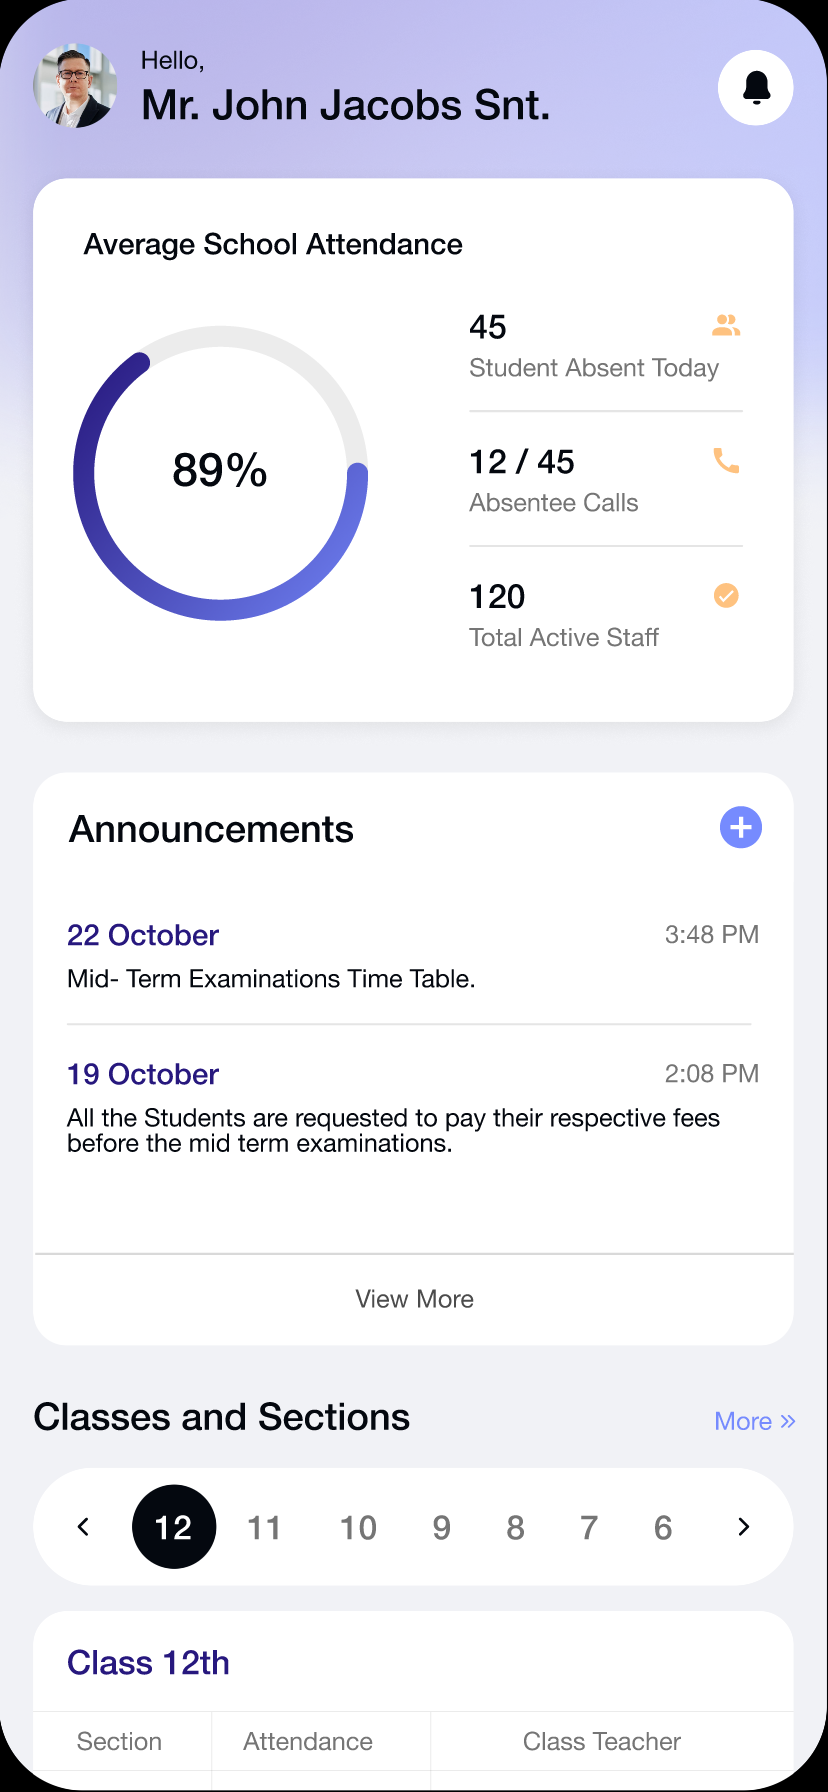
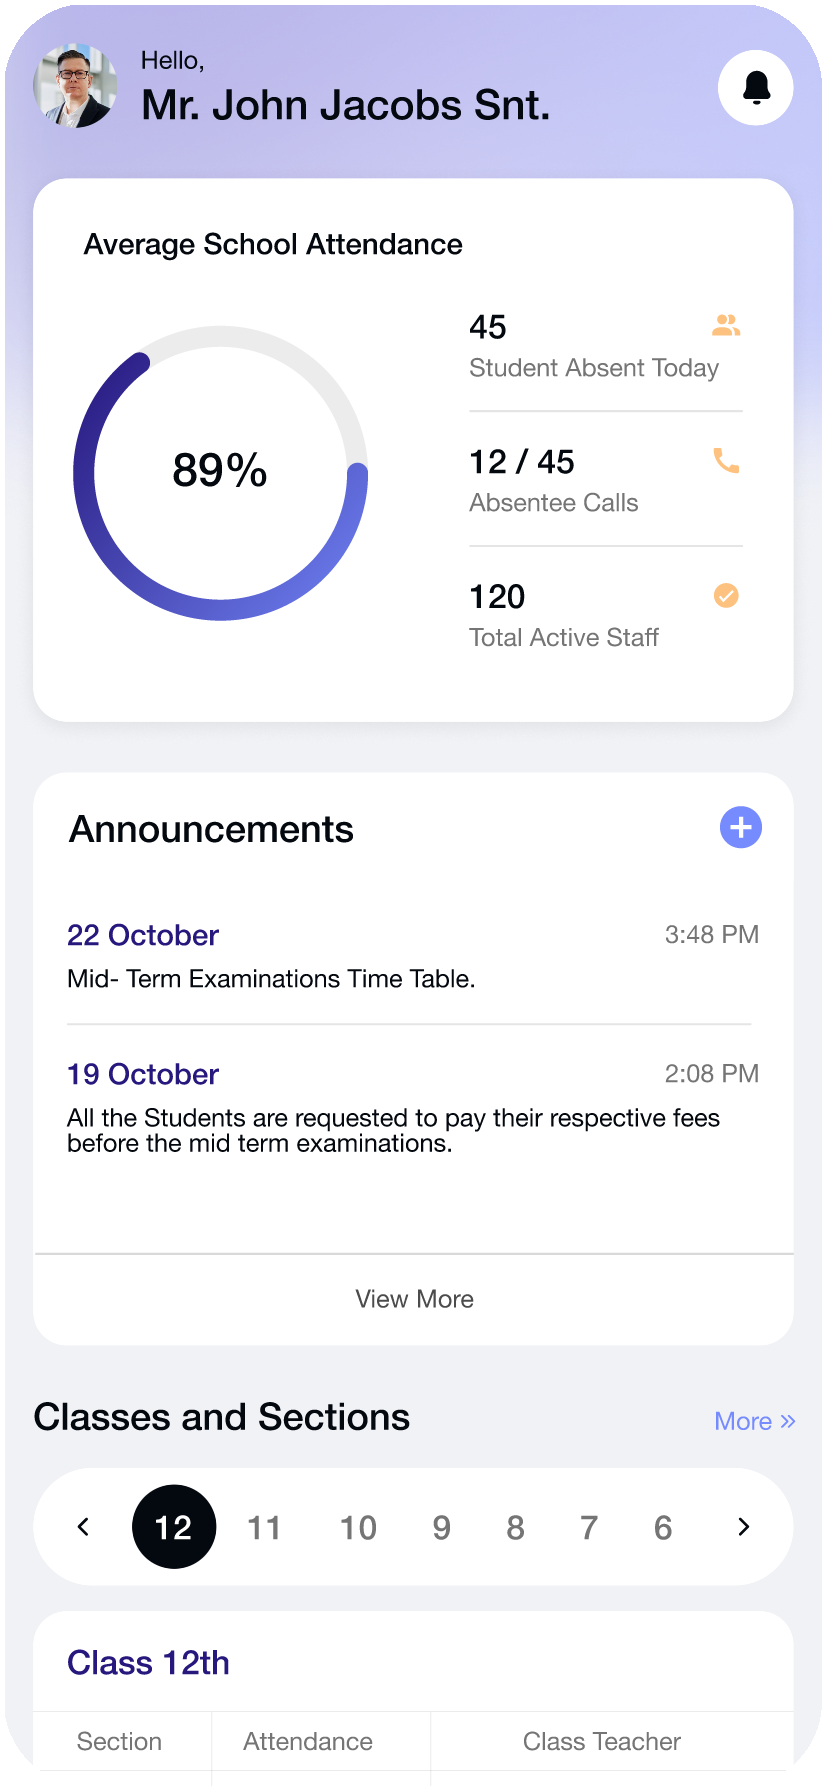
lag fix and small ui changes

Changed region(s): [[0.9058, 0.0, 1.0, 1.0], [0.0, 0.0, 0.0906, 0.25], [0.0, 0.9688, 0.0604, 1.0]]

diff --git a/src/components/IntroVideoFloater.tsx b/src/components/IntroVideoFloater.tsx
@@ -1,15 +1,33 @@
 import { useEffect, useRef, useState } from 'react';
 import { motion, AnimatePresence } from 'framer-motion';
-import { Maximize2, Minimize2, Volume2, VolumeX, X } from 'lucide-react';
+import { Maximize2, Minimize2, Play, Volume2, VolumeX, X } from 'lucide-react';
+import { useIsMobile } from '@/hooks/use-mobile';
 
 export function IntroVideoFloater() {
+  const isMobile = useIsMobile();
   const [hovered, setHovered] = useState(false);
   const [fullscreen, setFullscreen] = useState(false);
   const [muted, setMuted] = useState(true);
   const [dismissed, setDismissed] = useState(false);
+  // Desktop autoplays; on phones we wait for a tap so we don't download and
+  // continuously decode the 7 MB video on load (the main mobile cost here).
+  const [playing, setPlaying] = useState(!isMobile);
   const videoRef = useRef<HTMLVideoElement>(null);
 
-  const expanded = hovered || fullscreen;
+  // Controls are hover-gated on desktop; phones have no hover, so always show
+  // them there — otherwise the close/unmute buttons are unreachable on touch.
+  const expanded = hovered || fullscreen || isMobile;
+
+  const togglePlay = () => {
+    const v = videoRef.current;
+    if (!v) return;
+    if (v.paused) {
+      v.play().then(() => setPlaying(true)).catch(() => {});
+    } else {
+      v.pause();
+      setPlaying(false);
+    }
+  };
 
   useEffect(() => {
     const v = videoRef.current;
@@ -112,12 +130,33 @@ export function IntroVideoFloater() {
         <video
           ref={videoRef}
           src="/intro.mp4"
-          autoPlay
+          autoPlay={!isMobile}
           loop
           muted
           playsInline
+          preload={isMobile ? 'none' : 'auto'}
           className="pointer-events-none h-full w-full object-cover"
         />
+
+        {/* Tap-to-play overlay on phones (video doesn't autoplay there).
+            pointer-events-none on the dim layer so the close/control buttons
+            below stay tappable; only the centred Play button captures taps. */}
+        {isMobile && !playing && (
+          <div className="pointer-events-none absolute inset-0 z-10 flex items-center justify-center bg-black/40">
+            <button
+              type="button"
+              onPointerDown={(e) => e.stopPropagation()}
+              onClick={(e) => {
+                e.stopPropagation();
+                togglePlay();
+              }}
+              aria-label="Play intro video"
+              className="pointer-events-auto flex h-12 w-12 items-center justify-center rounded-full bg-white/90 text-black shadow"
+            >
+              <Play className="h-5 w-5 translate-x-0.5" />
+            </button>
+          </div>
+        )}
 
         <AnimatePresence>
           {expanded && (

diff --git a/src/App.tsx b/src/App.tsx
@@ -1,7 +1,7 @@
 import { useState, useEffect, Suspense, lazy } from "react";
 import { Toaster } from "@/components/ui/toaster";
 import { LoadingScreen } from "@/components/ui/LoadingScreen";
-import { AnimatePresence } from "framer-motion";
+import { AnimatePresence, MotionConfig } from "framer-motion";
 import { Toaster as Sonner } from "@/components/ui/sonner";
 import { TooltipProvider } from "@/components/ui/tooltip";
 import { QueryClient, QueryClientProvider } from "@tanstack/react-query";
@@ -9,6 +9,7 @@ import { BrowserRouter, Routes, Route } from "react-router-dom";
 import { ScrollToTop } from "./components/ScrollToTop";
 import { ErrorBoundary } from "./components/ErrorBoundary";
 import { SITE_CONFIG } from "./lib/constants";
+import { useIsMobile } from "@/hooks/use-mobile";
 
 // Lazy load richer pages for code-splitting to reduce initial bundle size.
 // Privacy/Terms are imported eagerly because they're small static legal pages
@@ -30,6 +31,7 @@ const queryClient = new QueryClient();
 const isPrerender = typeof navigator !== 'undefined' && navigator.webdriver;
 
 const App = () => {
+  const isMobile = useIsMobile();
   const [isLoading, setIsLoading] = useState(!isPrerender);
   const [pageReady, setPageReady] = useState(isPrerender);
   const [timerDone, setTimerDone] = useState(isPrerender);
@@ -68,6 +70,11 @@ const App = () => {
         <TooltipProvider>
           <Toaster />
           <Sonner />
+          {/* On phones, disable framer-motion transform/scale/rotate animations
+              globally. The many infinite floating/orbital loops are the main
+              cause of mobile jank; reducedMotion="always" stops them while
+              keeping opacity fades. Desktop keeps "user" (respects OS setting). */}
+          <MotionConfig reducedMotion={isMobile ? "always" : "user"}>
           <AnimatePresence mode="wait">
             {isLoading ? (
               <LoadingScreen key="loading" />
@@ -92,6 +99,7 @@ const App = () => {
               </BrowserRouter>
             )}
           </AnimatePresence>
+          </MotionConfig>
         </TooltipProvider>
       </QueryClientProvider>
     </ErrorBoundary>

diff --git a/src/components/home/DashboardSection.tsx b/src/components/home/DashboardSection.tsx
@@ -302,11 +302,19 @@ export function DashboardSection() {
                                                 padding: '8px',
                                             }}
                                         >
-                                            <img
-                                                src={slide.image}
-                                                alt={`${slide.role} Dashboard`}
-                                                className="w-full h-auto block rounded-xl md:rounded-2xl"
-                                            />
+                                            <picture>
+                                                {/* ~40 KB WebP for modern browsers; original PNG is the fallback */}
+                                                <source srcSet={slide.image.replace('.PNG', '.webp')} type="image/webp" />
+                                                <img
+                                                    src={slide.image}
+                                                    alt={`${slide.role} Dashboard`}
+                                                    width={828}
+                                                    height={1792}
+                                                    loading="lazy"
+                                                    decoding="async"
+                                                    className="w-full h-auto block rounded-xl md:rounded-2xl"
+                                                />
+                                            </picture>
                                         </div>
                                     </motion.div>
                                 );

diff --git a/src/index.css b/src/index.css
@@ -292,4 +292,43 @@
   .blend-soft-light {
     mix-blend-mode: soft-light;
   }
+
+  /* Hide scrollbar while keeping the element scrollable */
+  .no-scrollbar {
+    -ms-overflow-style: none; /* IE/Edge */
+    scrollbar-width: none; /* Firefox */
+  }
+
+  .no-scrollbar::-webkit-scrollbar {
+    display: none; /* Chrome/Safari */
+  }
+}
+
+/* ---------------------------------------------------------------------------
+   Mobile performance overrides
+   Phones lag badly with backdrop-filter: blur() — each blurred element forces
+   the GPU to re-sample everything behind it on every scrolled/animated frame.
+   On small screens we drop the blur (elements keep a slightly more opaque
+   solid background so text stays readable) and turn off smooth scrolling,
+   which is janky when combined with sticky/animated content.
+--------------------------------------------------------------------------- */
+@media (max-width: 767px) {
+  html {
+    scroll-behavior: auto;
+  }
+
+  /* Kill blur on the shared glass utility... */
+  .glass-card {
+    backdrop-filter: none !important;
+    -webkit-backdrop-filter: none !important;
+    background-color: rgba(255, 255, 255, 0.92);
+  }
+
+  /* ...and on any element using inline backdrop-filter (decorative panels,
+     floating cards, etc.). Stylesheet !important overrides inline styles. */
+  [style*="backdrop-filter"],
+  [style*="backdropFilter"] {
+    backdrop-filter: none !important;
+    -webkit-backdrop-filter: none !important;
+  }
 }

diff --git a/src/components/home/HeroSection.tsx b/src/components/home/HeroSection.tsx
@@ -2,12 +2,18 @@ import { motion, AnimatePresence } from 'framer-motion';
 import { Link } from 'react-router-dom';
 import { Button } from '@/components/ui/button';
 import { ArrowRight, BookOpen, GraduationCap, School, Pencil, Calculator, Globe, Lightbulb, Users } from 'lucide-react';
+import { useIsMobile } from '@/hooks/use-mobile';
 
 export function HeroSection() {
+  const isMobile = useIsMobile();
   return (
     <>
       <section className="relative min-h-[90vh] flex items-center gradient-hero overflow-hidden">
-        {/* Enhanced Glassmorphic Background Elements */}
+        {/* Enhanced Glassmorphic Background Elements.
+            Skipped entirely on phones — ~14 blurred, infinitely-animating
+            panels here are the heaviest part of the page and tank mobile FPS.
+            The gradient-hero background alone keeps the section looking clean. */}
+        {!isMobile && (
         <div className="absolute inset-0 overflow-hidden pointer-events-none">
           {/* Large Glassmorphic Panels */}
           <motion.div
@@ -311,6 +317,7 @@ export function HeroSection() {
           {/* Grid pattern overlay */}
           <div className="absolute inset-0 grid-pattern opacity-30" />
         </div>
+        )}
 
         <div className="container-wide relative z-10">
           <div className="max-w-4xl mx-auto text-center">

diff --git a/src/components/ui/LoadingScreen.tsx b/src/components/ui/LoadingScreen.tsx
@@ -19,10 +19,12 @@ export function LoadingScreen() {
                 >
                     <div className="w-24 h-24 md:w-32 md:h-32 flex items-center justify-center mb-4">
                         <img
-                            src="/gyanama-logo.png"
+                            src="/gyanama-logo-256.png"
                             alt="GYANAMA Logo"
                             width={128}
                             height={128}
+                            fetchPriority="high"
+                            decoding="async"
                             className="w-full h-full object-contain"
                             onError={(e) => { e.currentTarget.style.display = 'none'; }}
                         />

diff --git a/src/components/home/MobileAppSection.tsx b/src/components/home/MobileAppSection.tsx
@@ -110,7 +110,7 @@ export function MobileAppSection() {
                                     </div>
 
                                     {/* Role Cards Scroll */}
-                                    <div className="flex-1 p-5 space-y-4 overflow-y-auto">
+                                    <div className="flex-1 p-5 space-y-4 overflow-y-auto no-scrollbar">
                                         {/* Principal Card */}
                                         <div className="bg-white p-5 rounded-2xl shadow-sm border border-slate-100 relative overflow-hidden group">
                                             <div className="absolute top-0 right-0 p-3 opacity-10 group-hover:opacity-20 transition-opacity">

diff --git a/src/components/layout/Navbar.tsx b/src/components/layout/Navbar.tsx
@@ -64,10 +64,12 @@ export function Navbar() {
             {/* Logo */}
             <Link to="/" className="flex items-center gap-3 group">
               <img
-                src="/gyanama-logo.png"
+                src="/gyanama-logo-256.png"
                 alt="GYANAMA - AI School Management System"
                 width={56}
                 height={56}
+                fetchPriority="high"
+                decoding="async"
                 className="h-14 w-auto transition-transform duration-300 group-hover:scale-110"
                 onError={(e) => { e.currentTarget.style.display = 'none'; }}
               />

diff --git a/src/components/layout/Footer.tsx b/src/components/layout/Footer.tsx
@@ -24,10 +24,12 @@ export function Footer() {
           <div className="col-span-2">
             <Link to="/" className="flex items-center gap-3 mb-4">
               <img
-                src="/gyanama-logo.png"
+                src="/gyanama-logo-256.png"
                 alt="GYANAMA - AI School Management System"
                 width={56}
                 height={56}
+                loading="lazy"
+                decoding="async"
                 className="h-14 w-auto"
                 onError={(e) => { e.currentTarget.style.display = 'none'; }}
               />
